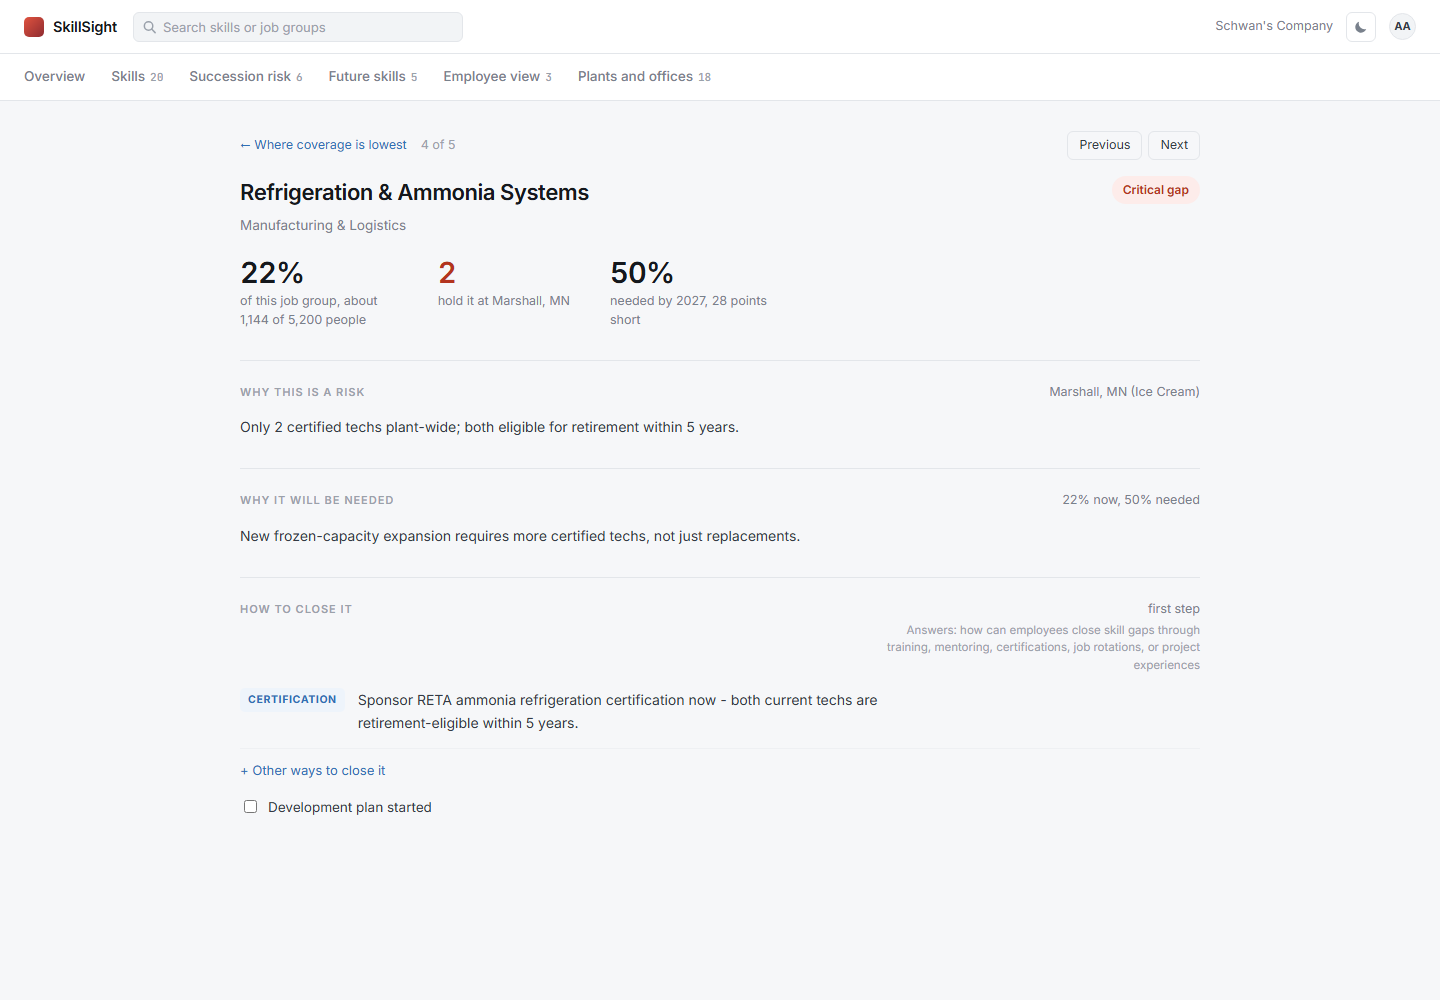
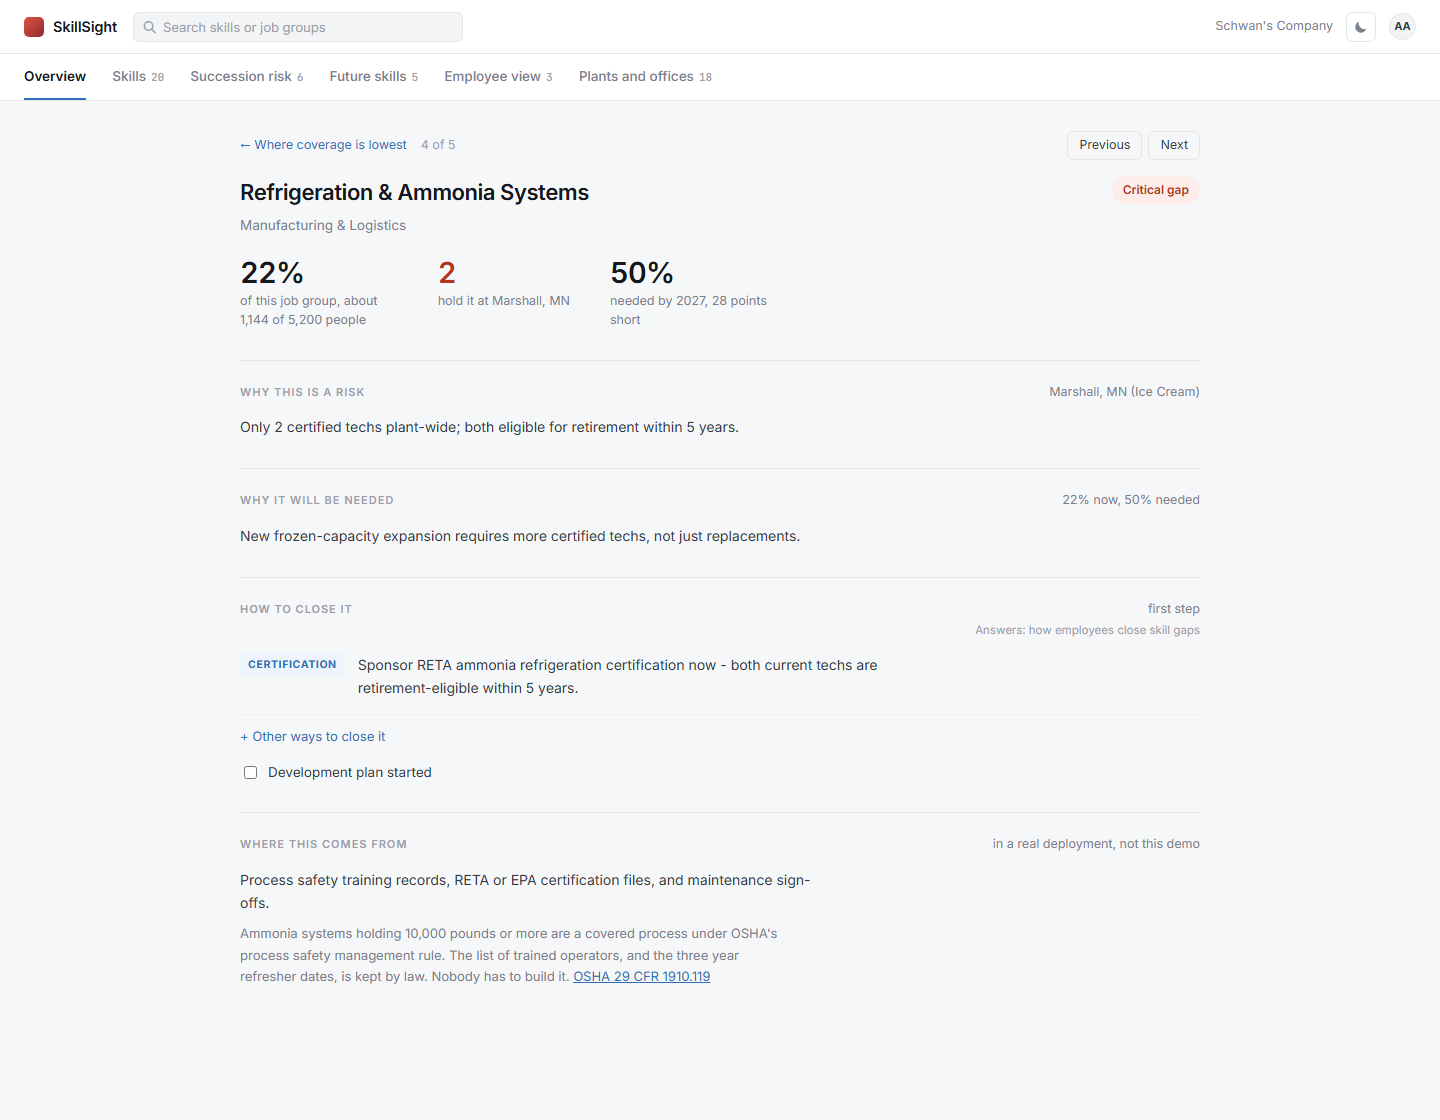
explain provenance in the readme and devpost copy

diff --git a/README.md b/README.md
@@ -21,7 +21,7 @@ SkillSight answers the five questions in the challenge, one page each, plus a vi
 | **Employee view** | The same data seen by the person: what they know, what only they know, and their next step |
 | **Plants and offices** | Every site the data covers |
 
-Click any row to open that skill. The skill page shows coverage, how many people hold it, why it is a risk, why it will be needed, and the first step to close the gap, plus backup options. Checking "development plan started" is saved in the browser, so it is still there after a reload.
+Click any row to open that skill. The skill page shows coverage, how many people hold it, why it is a risk, why it will be needed, the first step to close the gap with backup options, and **where the data would come from in a real deployment**. Checking "development plan started" is saved in the browser, so it is still there after a reload.
 
 The **do this first** list is the part that matters. It scores every at-risk skill by how much the business is hurt if it is lost, how few people hold it, and how big the gap is, then ranks them. That turns a wall of numbers into an order of work.
 
@@ -50,6 +50,14 @@ PROJECT.md    challenge notes and research
 Coverage percentages, per-site headcounts, and employee records are made up for the demo. Company headcount, plant names, office locations, job groups, and the business drivers (the Sioux Falls plant build-out, the CJ CheilJedang integration) are real and taken from public sources.
 
 The made-up numbers are shaped by published figures rather than invented. Schwan's reports about 8,500 employees. Deloitte and The Manufacturing Institute put the manufacturing skills gap at 2.1 million unfilled jobs by 2030. The average certified ammonia refrigeration technician in the US is approaching 55, which is why the demo puts two retirement-eligible techs on the Marshall ammonia system. Every source is linked inside the app, under "Read more" on the Overview.
+
+## Where the data would really come from
+
+Every skill page names the systems a real deployment would read from, because the common objection is "we do not have this data". Most companies already do.
+
+The clearest case is ammonia refrigeration. Systems holding 10,000 pounds or more are a covered process under OSHA's process safety management rule, so the list of trained operators and their three-year refresher dates is kept by law. Food safety has a similar hook: FDA's preventive controls rule requires each facility to name a qualified individual in its food safety plan.
+
+One skill, the Salina line setup, honestly says "None. This skill has no system of record anywhere." That is the finding, not a gap in the tool.
 
 ## Built with
 

diff --git a/SUBMISSION.md b/SUBMISSION.md
@@ -43,6 +43,12 @@ SkillSight puts it in one place and answers the five questions in the challenge,
 
 Click any row to open that skill. The skill page shows coverage, how many people hold it, why it is a risk, why it will be needed, and the first step to close the gap with two backup options. Marking a development plan as started is saved in the browser and is still there after a reload.
 
+## Answering "we do not have this data"
+
+Every skill page names the systems a real deployment would read from. Ammonia refrigeration is the strongest case: systems over 10,000 pounds are an OSHA covered process, so the trained-operator list and its three-year refresher dates already exist by law. Food safety has the FDA preventive-controls qualified individual. Maintenance skills come from work order sign-offs, which record who actually did the work rather than who took the course.
+
+One skill says "None. This skill has no system of record anywhere." That is the Salina line setup, and it is the finding rather than a gap in the tool.
+
 ## The part that matters
 
 Most dashboards show numbers and stop. SkillSight ranks them. The "do this first" list scores every at-risk skill by three things: how much the business is hurt if the skill is lost, how few people hold it, and how big the gap is. That turns a wall of numbers into an order of work a manager can act on Monday.
